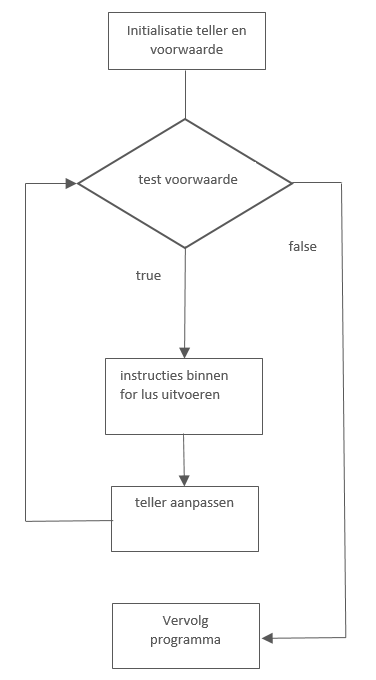
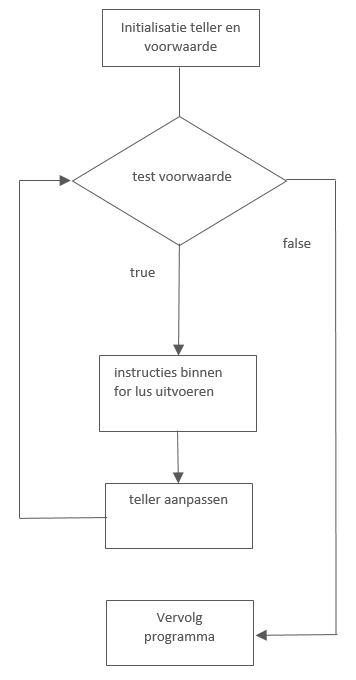
Added flowcharts

diff --git a/modules/basics/_posts/2000-01-09-While.md b/modules/basics/_posts/2000-01-09-While.md
@@ -24,6 +24,10 @@ while (voorwaarde)
 }
 ```
 
+Grafisch kunnen we dit met onderstaande flowchart voorstellen:
+
+![image](/img/basics/while/while_flowchart_algemeen.PNG)
+
 Bespreking: zolang er aan de voorwaarde voldaan is, wordt het instructieblok herhaald. De voorwaarde bevindt zich tussen ronde haken, het instructieblok tussen accolades.
 Bij het opbouwen van de voorwaarde, kunnen de verschillende logische en vergelijkingsoperatoren gebruikt worden, die in het hoofdstuk over operatoren besproken werden.
 
@@ -44,6 +48,10 @@ public static int countDivided2(float number)
     return count;
 }
 ```
+
+Grafisch kunnen we dit met onderstaande flowchart voorstellen:
+
+![image](/img/basics/while/while_flowchart_voorbeeld.PNG)
 
 Bespreking:
 * De variabele count: In dit voorbeeld wordt count als een teller gebruikt om bij te houden hoe vaak het instructieblok van de while-lus uitgevoerd wordt. De eindwaarde van deze teller geeft aan hoe vaak het getal deelbaar is door 2 voordat het kleiner wordt dan 1. Binnen de while-lus wordt de teller met 1 verhoogd (houdt bijgevolg het aantal lussen bij). De teller wordt als functieresultaat gegeven.
@@ -81,6 +89,10 @@ do
     te herhalen instructieblok;
 } while (voorwaarde);
 ```
+
+Grafisch kunnen we dit met onderstaande flowchart voorstellen:
+
+![image](/img/basics/while/do_while_flowchart_algemeen.PNG)
 
 Bespreking:
 * Aangezien de voorwaarde pas na het uitvoeren van het te herhalen instructieblok getest wordt, wordt dit instructieblok altijd minstens één keer uitgevoerd ongeacht er aan de voorwaarde voldaan is.
